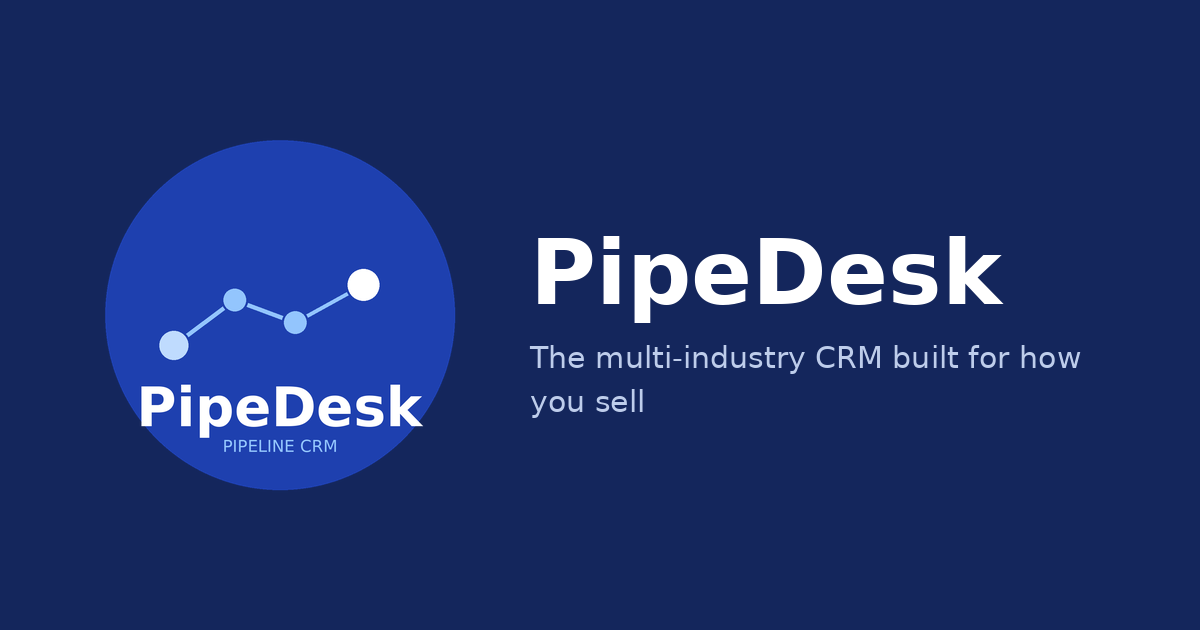
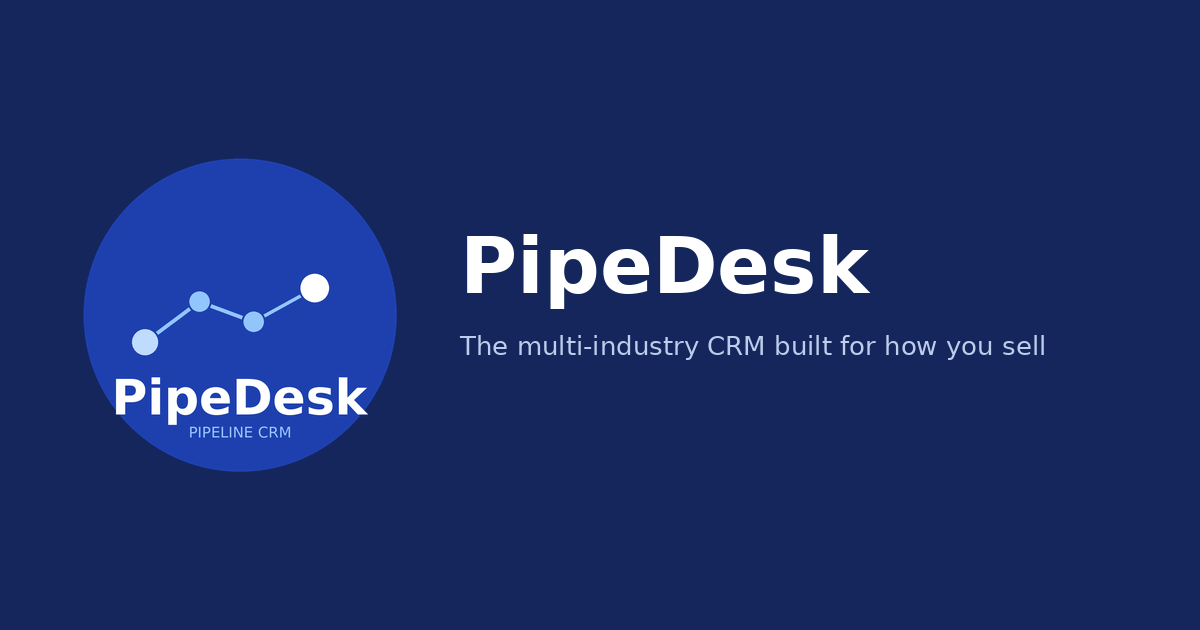
Regenerate OG image, confirmed text fits within bounds (587px used of 700px available)

Changed region(s): [[0.0617, 0.2111, 0.8942, 0.7841], [0.1233, 0.2714, 0.1542, 0.3016]]

diff --git a/generate_og.py b/generate_og.py
@@ -1,0 +1,54 @@
+from PIL import Image, ImageDraw, ImageFont
+
+W, H = 1200, 630
+bg_color = (20, 38, 92)
+
+canvas = Image.new("RGB", (W, H), bg_color)
+draw = ImageDraw.Draw(canvas)
+
+logo = Image.open("public/brand/pipedesk-logo.png").convert("RGBA")
+logo_size = 340
+logo = logo.resize((logo_size, logo_size), Image.LANCZOS)
+logo_x = 70
+logo_y = (H - logo_size) // 2
+canvas.paste(logo, (logo_x, logo_y), logo)
+
+font_bold = ImageFont.truetype("/usr/share/fonts/truetype/dejavu/DejaVuSans-Bold.ttf", 78)
+font_regular = ImageFont.truetype("/usr/share/fonts/truetype/dejavu/DejaVuSans.ttf", 26)
+
+text_x = logo_x + logo_size + 50
+max_text_width = W - text_x - 40
+
+print("text_x =", text_x)
+print("max_text_width =", max_text_width)
+
+tagline = "The multi-industry CRM built for how you sell"
+full_bbox = draw.textbbox((0, 0), tagline, font=font_regular)
+print("full tagline width =", full_bbox[2] - full_bbox[0])
+
+draw.text((text_x, 220), "PipeDesk", font=font_bold, fill=(255, 255, 255))
+
+words = tagline.split()
+lines = []
+current_line = ""
+for word in words:
+    test_line = (current_line + " " + word).strip()
+    bbox = draw.textbbox((0, 0), test_line, font=font_regular)
+    line_width = bbox[2] - bbox[0]
+    print("testing:", repr(test_line), "width:", line_width)
+    if line_width > max_text_width and current_line:
+        lines.append(current_line)
+        current_line = word
+    else:
+        current_line = test_line
+if current_line:
+    lines.append(current_line)
+
+print("FINAL LINES:", lines)
+
+y = 330
+for line in lines:
+    draw.text((text_x, y), line, font=font_regular, fill=(190, 205, 235))
+    y += 40
+
+canvas.save("public/brand/pipedesk-og-image.png")
